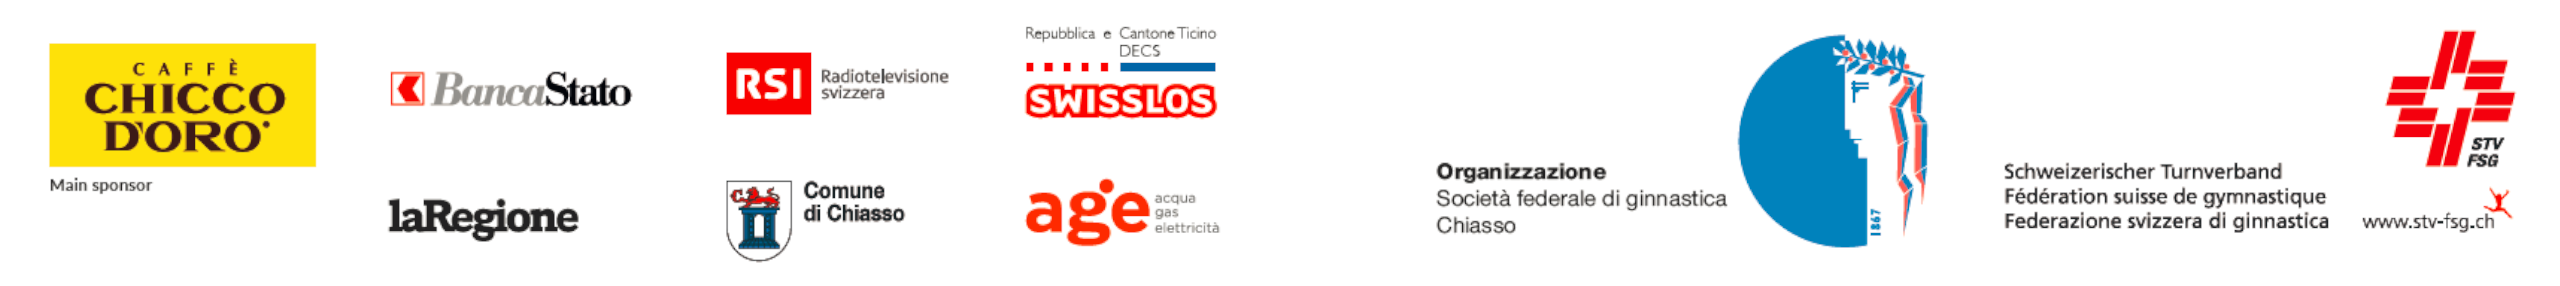
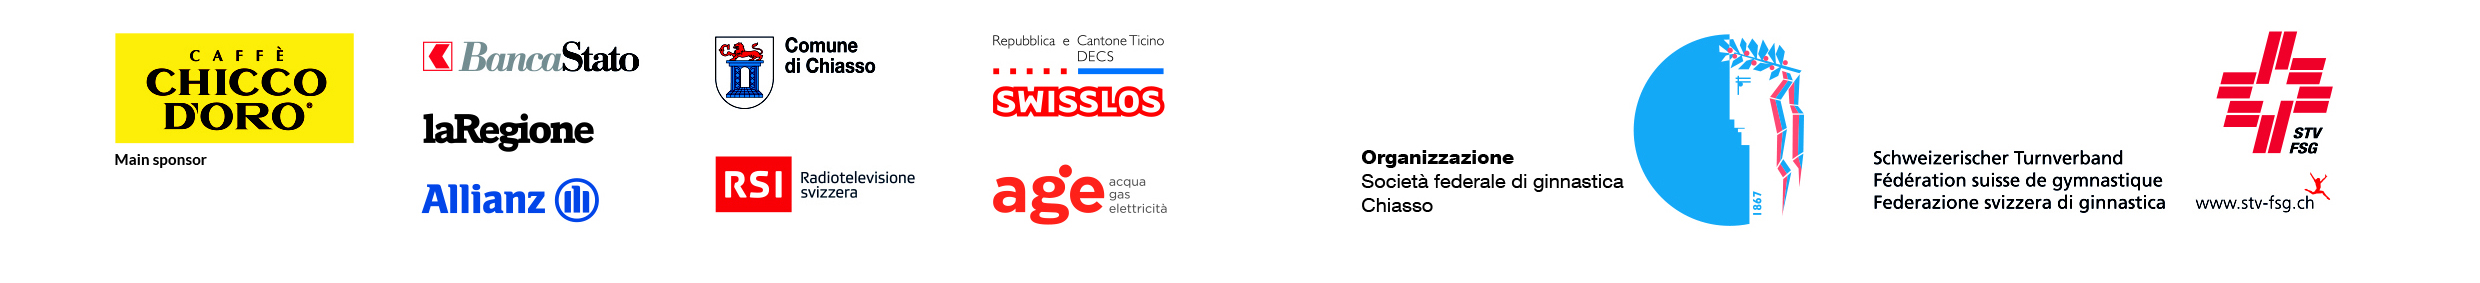
Pdf generation adapted for 2022
- new header/footer for 2022 edition
- Page number added

diff --git a/MGServer/src/createpdf.cpp b/MGServer/src/createpdf.cpp
@@ -10,6 +10,7 @@ CreatePdf::CreatePdf()
 // , m_doc()
  , m_printer(QPrinter::PrinterResolution)
  , m_cRank()
+ , m_iPageNumber(0)
 {
 }
 
@@ -27,14 +28,14 @@ void CreatePdf::Print()
     // print 2 files,with and without header/footer
     for (int i=0; i<2; i++)
     {
-        bool bWithLogo = (i==0); // 1st time wizh logo
+        bool bWithLogo = (i==0); // 1st time with logo
 
         QString strFileName = QStandardPaths::writableLocation(QStandardPaths::DesktopLocation);
 
         if (bWithLogo)
-            strFileName += "/MemorialGander2018.pdf";
+            strFileName += "/MemorialGander2022.pdf";
         else
-            strFileName += "/MemorialGander2018_NoImage.pdf";
+            strFileName += "/MemorialGander2022_NoImage.pdf";
 
         m_printer.setOutputFormat(QPrinter::PdfFormat);
         m_printer.setPaperSize(QPrinter::A4);
@@ -45,6 +46,7 @@ void CreatePdf::Print()
             return;
         }
 
+       m_iPageNumber = 1;
        PrintMenAllround(bWithLogo);
 
         if (! m_printer.newPage()) {
@@ -278,6 +280,7 @@ void CreatePdf::PrintFooter(bool p_bHFImages, QTextStream& out)
     fileIn.close();
 
     AddFooter(p_bHFImages);
+    AddPageNumber();
 }
 
 void CreatePdf::PrintMenTableTitle(QTextStream& out)
@@ -562,8 +565,8 @@ void CreatePdf::AddHeader(bool p_bHFImages)
 {
     if (p_bHFImages)
     {
-        QRectF target(20.0, 0.0, 496.0/3, 223.0/3);
-        QRectF source(0.0, 0.0, 496.0, 223.0);
+        QRectF target(20.0, 0.0, 496.0/3, 239.0/3);
+        QRectF source(0.0, 0.0, 496.0, 239.0);
         QImage image = QImage("../MGServer/pdf/IN_Header_LogoMG.png");
         m_painter.drawImage(target, image, source);  // Paint the mask onto the image
     }
@@ -573,9 +576,23 @@ void CreatePdf::AddFooter(bool p_bHFImages)
 {
     if (p_bHFImages)
     {
-        QRectF target(20.0, 750.0, 2560.0/5, 286.0/5);
-        QRectF source(0.0, 0.0, 2560.0, 286.0);
+        QRectF target(20.0, 750.0, 2480.0/5, 283.0/5);
+        QRectF source(0.0, 0.0, 2480.0, 283.0);
         QImage image = QImage("../MGServer/pdf/IN_Footer_Sponsors.png");
         m_painter.drawImage(target, image, source);  // Paint the mask onto the image
     }
 }
+
+
+void CreatePdf::AddPageNumber()
+{
+    int x=m_printer.paperRect().width()-80;
+    int y=m_printer.paperRect().height()-40;
+    m_painter.setFont({"Arial", 10});
+    m_painter.setPen({0, 0, 128, 128});
+    m_painter.drawText(x, y, "Page " + QString::number(m_iPageNumber));
+
+    // inc for next page
+    m_iPageNumber++;
+}
+

diff --git a/MGServer/src/createpdf.h b/MGServer/src/createpdf.h
@@ -59,6 +59,8 @@ private:
     void AddHeader(bool p_bHFImages);
     void AddFooter(bool p_bHFImages);
 
+    void AddPageNumber();
+
     QTextStream m_textStream;
 
     QPainter m_painter;
@@ -66,6 +68,8 @@ private:
     QPrinter m_printer;
 
     GymnastRanking m_cRank;
+
+    int m_iPageNumber;
 };
 
 #endif // CREATEPDF_H
